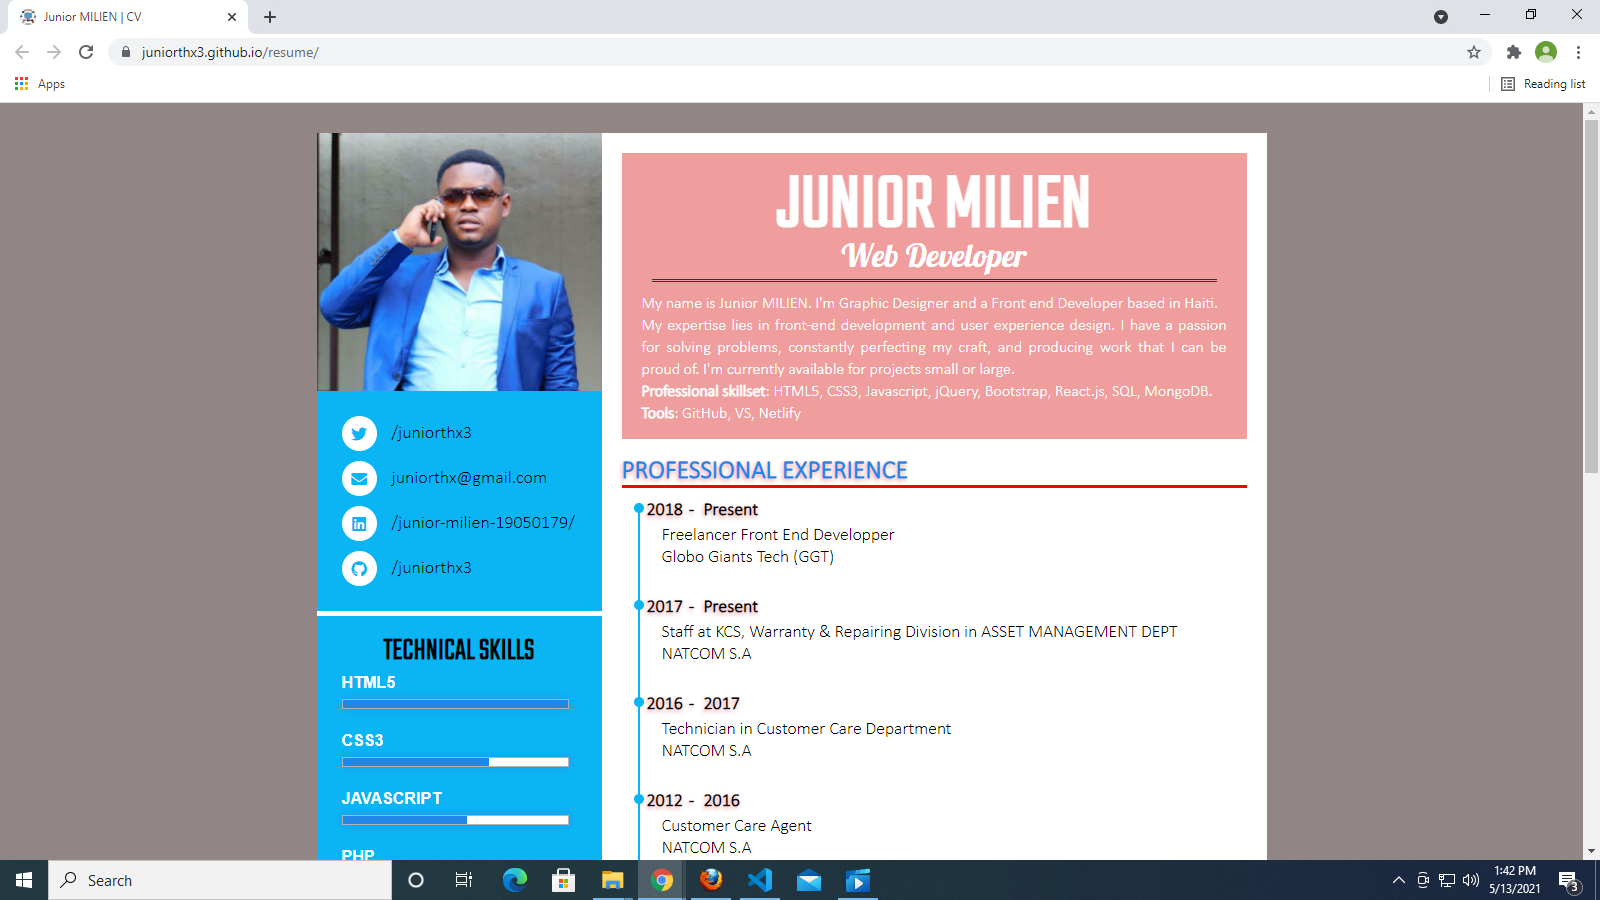
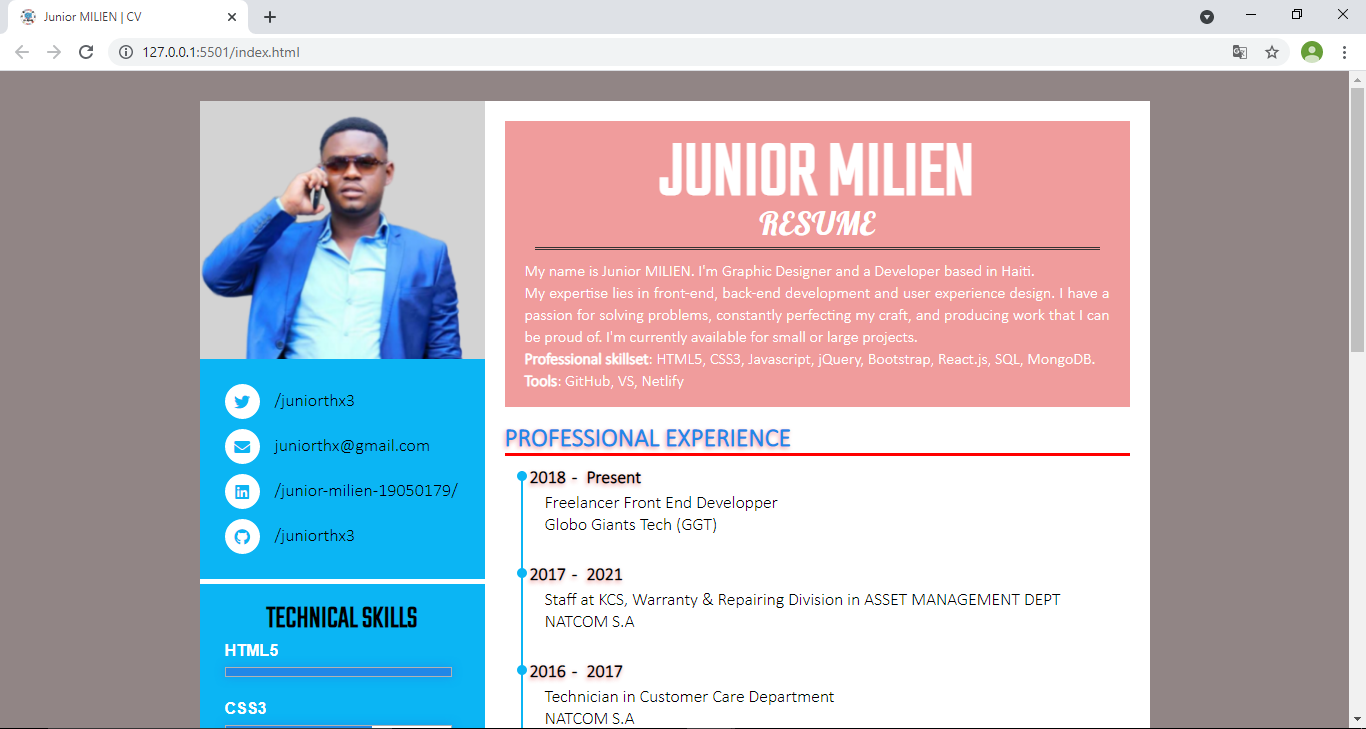
LATEST UPDATED

diff --git a/index.html b/index.html
@@ -77,10 +77,10 @@
             <h2>RESUME</h2>
             <hr />
             <div class="about">
-                <p>My name is Junior MILIEN. I'm Graphic Designer and a Front end Developer based in Haiti.</p>
-                <p>My expertise lies in front-end development and user experience design. 
+                <p>My name is Junior MILIEN. I'm Graphic Designer and a Developer based in Haiti.</p>
+                <p>My expertise lies in front-end, back-end development and user experience design. 
                   I have a passion for solving problems, constantly perfecting my craft, and producing work that I can be proud of. 
-                  I'm currently available for projects small or large.
+                  I'm currently available for small or large projects.
                 </p>
                 <P><strong>Professional skillset</strong>: HTML5, CSS3, Javascript, jQuery, Bootstrap, React.js, SQL, MongoDB.</P>
                 <p><strong>Tools</strong>: GitHub, VS, Netlify</p>

diff --git a/style.css b/style.css
@@ -87,13 +87,10 @@ h3{
     font-weight: bold;
 }
 
-
-
 ul li{
     display: flex;
     font-size:20px;
     padding:5px;
-    cursor:pointer;
     font-size:1.5rem;
     padding:5px;
 }
